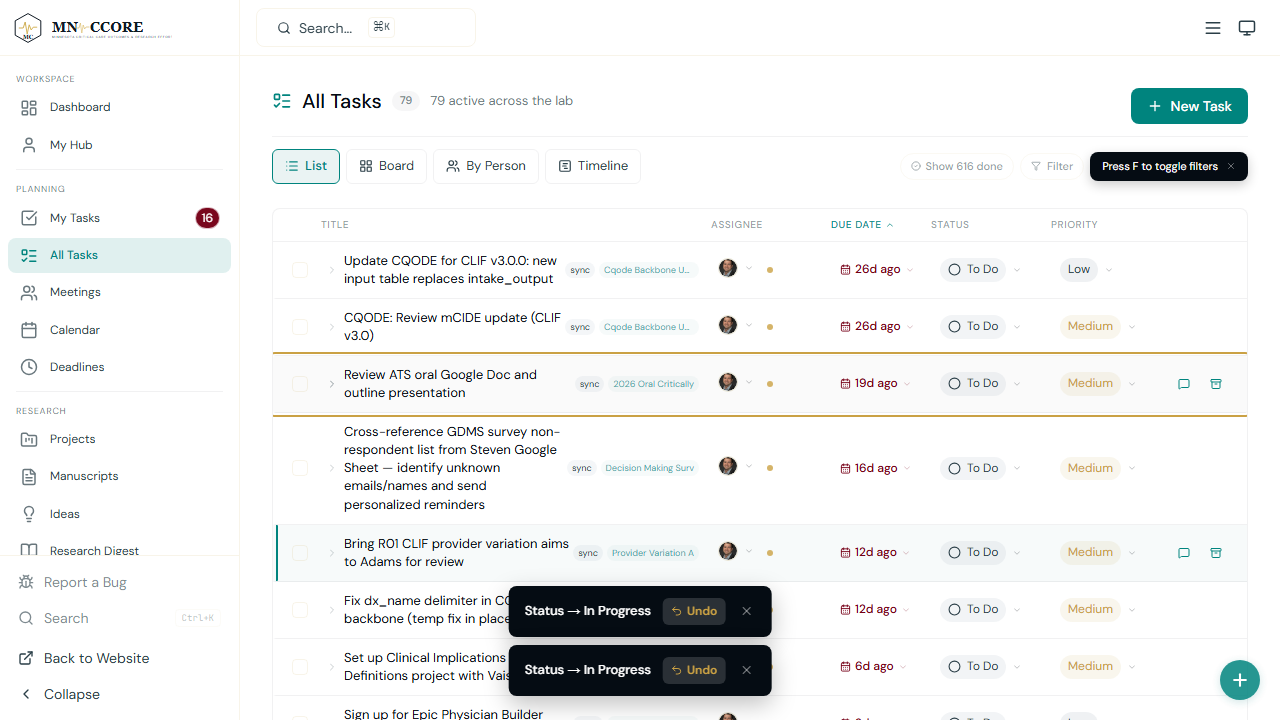
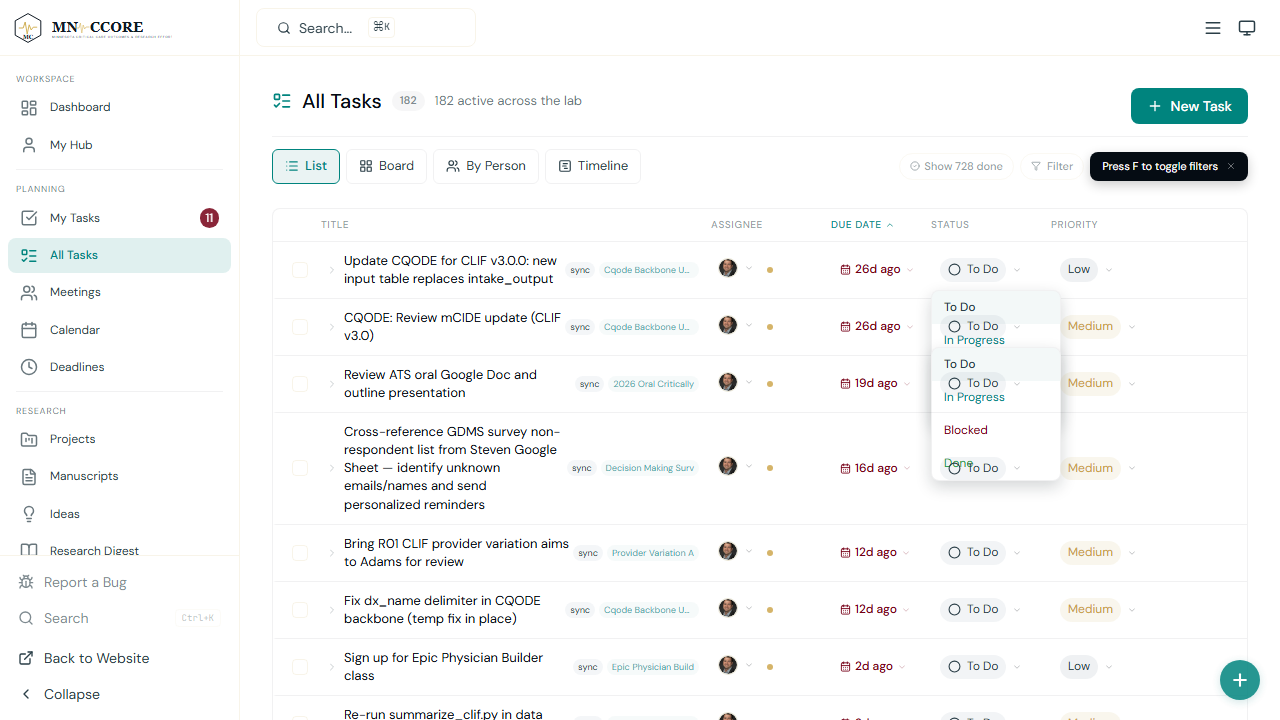
fix: Undo locator CSS syntax (use .or() instead of comma)

diff --git a/tests/daily-superuser.spec.ts b/tests/daily-superuser.spec.ts
@@ -1442,7 +1442,7 @@ test.describe('EXHAUSTIVE — Every interactive element verified', () => {
       await bulkDone.click()
       await page.waitForTimeout(500)
       // Click undo
-      const undo = page.locator('button:has-text("Undo"), text=Undo').first()
+      const undo = page.locator('button:has-text("Undo")').or(page.locator('text=Undo')).first()
       if (await undo.isVisible({ timeout: 3000 }).catch(() => false)) {
         await undo.click()
         await page.waitForTimeout(500)
@@ -1806,7 +1806,7 @@ test.describe('EXHAUSTIVE — Every interactive element verified', () => {
         await inProgress.click()
         await page.waitForTimeout(500)
         // Click Undo
-        const undo = page.locator('button:has-text("Undo"), text=Undo').first()
+        const undo = page.locator('button:has-text("Undo")').or(page.locator('text=Undo')).first()
         if (await undo.isVisible({ timeout: 3000 }).catch(() => false)) {
           await undo.click()
           await page.waitForTimeout(500)
@@ -1863,7 +1863,7 @@ test.describe('EXHAUSTIVE — Every interactive element verified', () => {
     console.log(`Simultaneous toasts: ${toasts}`)
     await page.screenshot({ path: 'review/exhaustive-multi-toast.png' })
     // Undo both
-    const undos = page.locator('button:has-text("Undo"), text=Undo')
+    const undos = page.locator('button:has-text("Undo")').or(page.locator('text=Undo'))
     const undoCount = await undos.count()
     for (let i = 0; i < undoCount; i++) {
       await undos.first().click().catch(() => {})
